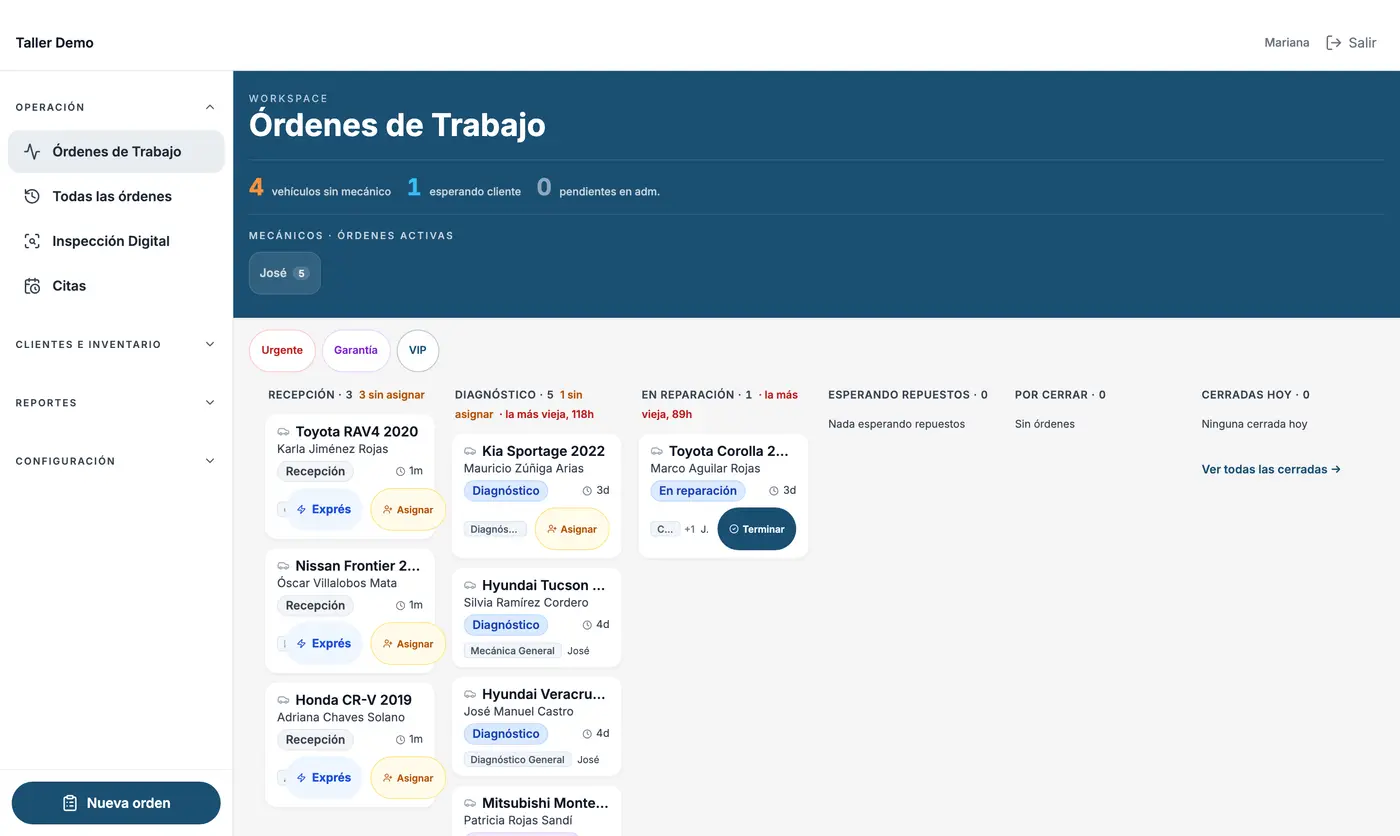
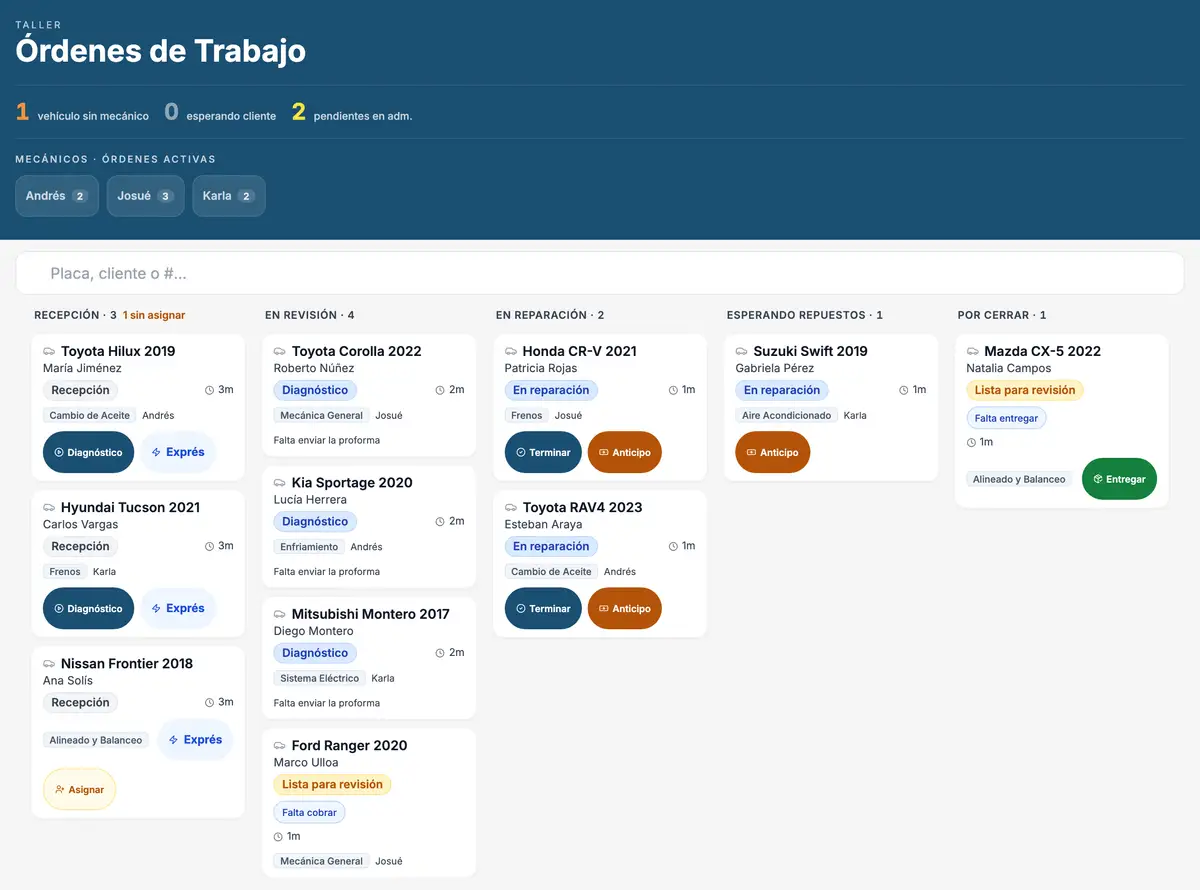
feat(capturas): el tablero dice «En revisión», y aparece lo que recibe el cliente (#43)
Cierra los dos pendientes que §8.14 del plan dejó desbloqueados al
demostrar que no hacían falta credenciales de un taller vivo: alcanza un
entorno local.

EL TABLERO (pendiente desde el 15-09). `board.webp` mostraba una columna
«DIAGNÓSTICO» que el producto dejó de llamar así: hoy es «En revisión»,
porque la columna agrupa las DOS veces que el mecánico mira el carro
—diagnosticar y marcar terminado— y el nombre viejo solo nombraba la
primera. La captura nueva muestra las cinco columnas con carga real:
recepción 3, en revisión 4, en reparación 2, esperando repuestos 1 y por
cerrar 1. La anterior solo tenía tres columnas con algo adentro.

Los tres textos alternativos que la acompañaban decían «diagnóstico» como
nombre de columna y afirmaban que la tarjeta muestra la placa. No la
muestra: muestra vehículo, cliente, estado, antigüedad y mecánico. Los
tres reescritos.

LO QUE RECIBE EL CLIENTE. Las páginas de tipo de taller mostraban solo
pantallas del taller. Ahora:

  · /para/taller-general — el reporte de inspección como lo abre el
    cliente: el resumen por severidad y, en cada hallazgo, los tres
    botones de decisión con el aviso de que no es un cobro. Es el
    mecanismo de «el carro entra por una cosa y se queda por tres».
  · /para/vehiculos-electricos — la proforma que autoriza punto por
    punto, con la fecha hasta la que vale el precio y el «Ahora no» que
    no se cobra ni se hace.

CÓMO SE HICIERON. Entorno local, sin una sola petición remota y sin tocar
[…]

diff --git a/para/taller-general.html b/para/taller-general.html
@@ -76,10 +76,10 @@
         </div>
       </div>
       <figure class="captura">
-        <img src="/imagenes/board.webp" width="1400" height="836" loading="lazy" decoding="async"
-             alt="Tablero de órdenes de un taller de mecánica general. Las columnas son
-                  recepción, diagnóstico, reparación y revisión, y cada tarjeta muestra
-                  la placa, el vehículo, el cliente y a quién está asignada.">
+        <img src="/imagenes/board.webp" width="1200" height="890" loading="lazy" decoding="async"
+             alt="Tablero de órdenes de un taller de mecánica general. Las cinco columnas son recepción, en revisión, en reparación,
+                  esperando repuestos y por cerrar, y cada tarjeta muestra el vehículo, el
+                  cliente, en qué estado va, cuánto lleva ahí y el mecánico asignado.">
         <figcaption>El tablero de un taller de mecánica general. Datos de un taller de demostración.</figcaption>
       </figure>
     </section>
@@ -116,6 +116,14 @@
           </ul>
         </div>
       </div>
+      <figure class="captura captura--telefono">
+        <img src="/imagenes/reporte-dvi.webp" width="360" height="926" loading="lazy" decoding="async"
+             alt="El reporte de inspección como lo abre el cliente en su teléfono. Arriba, el
+                  resumen: llantas requiere acción, frenos y fluidos requieren atención, luces y
+                  batería en buen estado. Debajo, cada hallazgo con su explicación y tres botones
+                  —«Sí, cotícenlo», «Más adelante» y «No, gracias»— y la aclaración de que no es un cobro.">
+        <figcaption>Lo que le llega al cliente cuando el carro entró por una cosa y apareció otra: él decide qué se cotiza. Datos de un taller de demostración.</figcaption>
+      </figure>
     </section>
 
     <section class="seccion" aria-labelledby="cierre">

diff --git a/index.html b/index.html
@@ -56,11 +56,11 @@
         <p class="reaseguro">Hecho en Costa Rica<span class="solo-ancho"> · desde ₡25.000 al mes por sucursal</span>, <strong>mecánicos ilimitados</strong> · SINPE y WhatsApp</p>
       </div>
       <figure class="captura">
-        <img src="/imagenes/board.webp" width="1400" height="836" decoding="async"
-             alt="Pantalla de órdenes de trabajo de Integra Núcleo. Las columnas
-                  muestran el flujo del taller: tres vehículos en recepción, cinco
-                  en diagnóstico y uno en reparación, cada uno con su cliente, su
-                  antigüedad y el mecánico asignado.">
+        <img src="/imagenes/board.webp" width="1200" height="890" decoding="async"
+             alt="Pantalla de órdenes de trabajo de Integra Núcleo. Las cinco columnas son recepción, en revisión, en reparación,
+                  esperando repuestos y por cerrar,
+                  con tres, cuatro, dos, uno y un vehículo. Cada tarjeta muestra el
+                  vehículo, el cliente, cuánto lleva en ese estado y el mecánico asignado.">
         <figcaption>
           La pantalla real, con datos de un taller de demostración. Ningún cliente
           real aparece acá.

diff --git a/funciones.html b/funciones.html
@@ -75,10 +75,10 @@
         </div>
       </div>
       <figure class="captura">
-        <img src="/imagenes/board.webp" width="1400" height="836" loading="lazy" decoding="async"
-             alt="Tablero de órdenes de trabajo. Cada columna es un estado —recepción,
-                  diagnóstico, reparación, revisión— y cada tarjeta muestra la placa,
-                  el vehículo, el cliente y a quién está asignada.">
+        <img src="/imagenes/board.webp" width="1200" height="890" loading="lazy" decoding="async"
+             alt="Tablero de órdenes de trabajo. Las cinco columnas son recepción, en revisión, en reparación,
+                  esperando repuestos y por cerrar, y cada tarjeta muestra el vehículo, el
+                  cliente, en qué estado va, cuánto lleva ahí y el mecánico asignado.">
         <figcaption>El tablero del día: en qué va cada carro, sin preguntarle a nadie. Datos de un taller de demostración.</figcaption>
       </figure>
     </section>

diff --git a/styles.css b/styles.css
@@ -760,7 +760,12 @@ main > .env:not(.texto) > .acciones{justify-content:center}
 
 /* La captura del reporte del cliente es una pantalla de teléfono: a todo el
    ancho se vería como un cartel y no como lo que es. Se limita y se centra. */
-.captura--telefono{max-width:18rem;margin-inline:auto}
+/* El `.seccion.panel > *{max-width:60rem}` de la línea 360 le gana por
+   especificidad y la captura del teléfono salía a 864 px: una pantalla de
+   celular estirada al ancho de la columna. Es el MISMO tropiezo que ya tiene
+   su nota en `.captura--tarjeta`, y se arregla igual — nombrando al padre. */
+.captura--telefono,
+.seccion.panel > .captura--telefono{max-width:18rem;margin-inline:auto}
 .captura--telefono img{border-radius:16px}
 .captura--telefono figcaption{text-align:center}
 

diff --git a/para/vehiculos-electricos.html b/para/vehiculos-electricos.html
@@ -116,6 +116,13 @@
           </ul>
         </div>
       </div>
+      <figure class="captura captura--telefono">
+        <img src="/imagenes/proforma-cliente.webp" width="420" height="1053" loading="lazy" decoding="async"
+             alt="La proforma como la abre el cliente en su teléfono. Dice hasta qué fecha vale el
+                  precio, lista cada repuesto con su monto y da dos botones por línea —«Lo quiero»
+                  y «Ahora no»—, con el aviso de que lo marcado «Ahora no» no se cobra ni se hace.">
+        <figcaption>La proforma que el cliente autoriza punto por punto, desde su teléfono. Datos de un taller de demostración.</figcaption>
+      </figure>
     </section>
 
     <section class="seccion" aria-labelledby="cierre">
